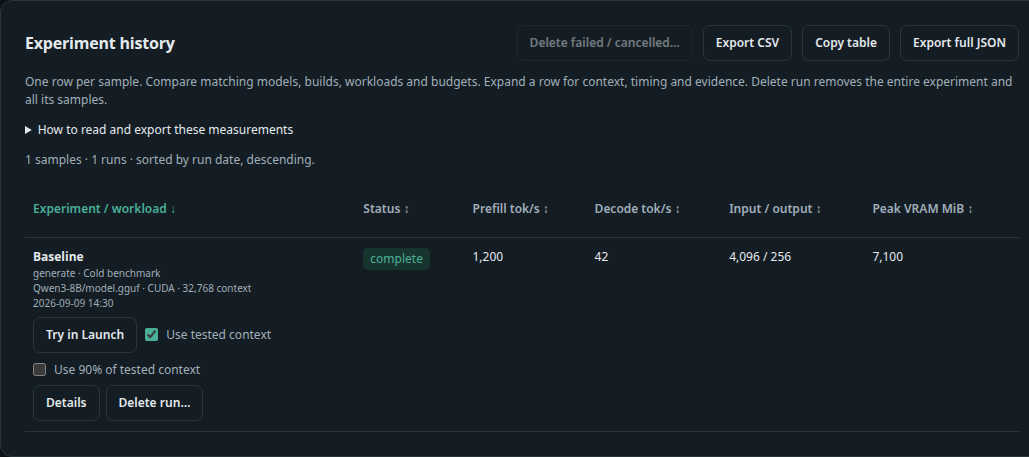
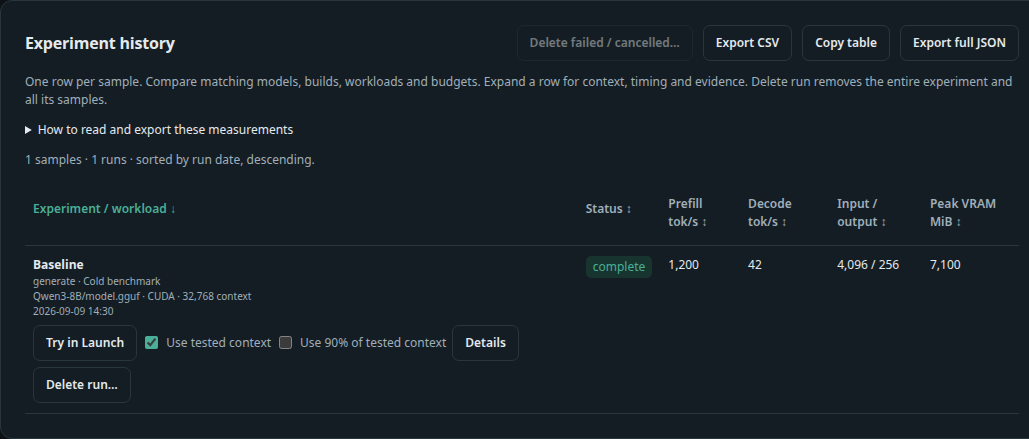
Keep experiment context choices beside Try in Launch

diff --git a/src/lllm2/static/panel.css b/src/lllm2/static/panel.css
@@ -1181,7 +1181,6 @@ code {
 }
 .result-name {
   min-width: 190px;
-  max-width: 250px;
   overflow-wrap: anywhere;
 }
 .result-actions {
@@ -1311,6 +1310,7 @@ section[tabindex="-1"], #comparisons {
   display: inline-flex;
   align-items: center;
   gap: 8px;
-  flex-wrap: wrap;
+  flex-wrap: nowrap;
+  white-space: nowrap;
 }
 .context-load-actions .check { margin: 0; }
